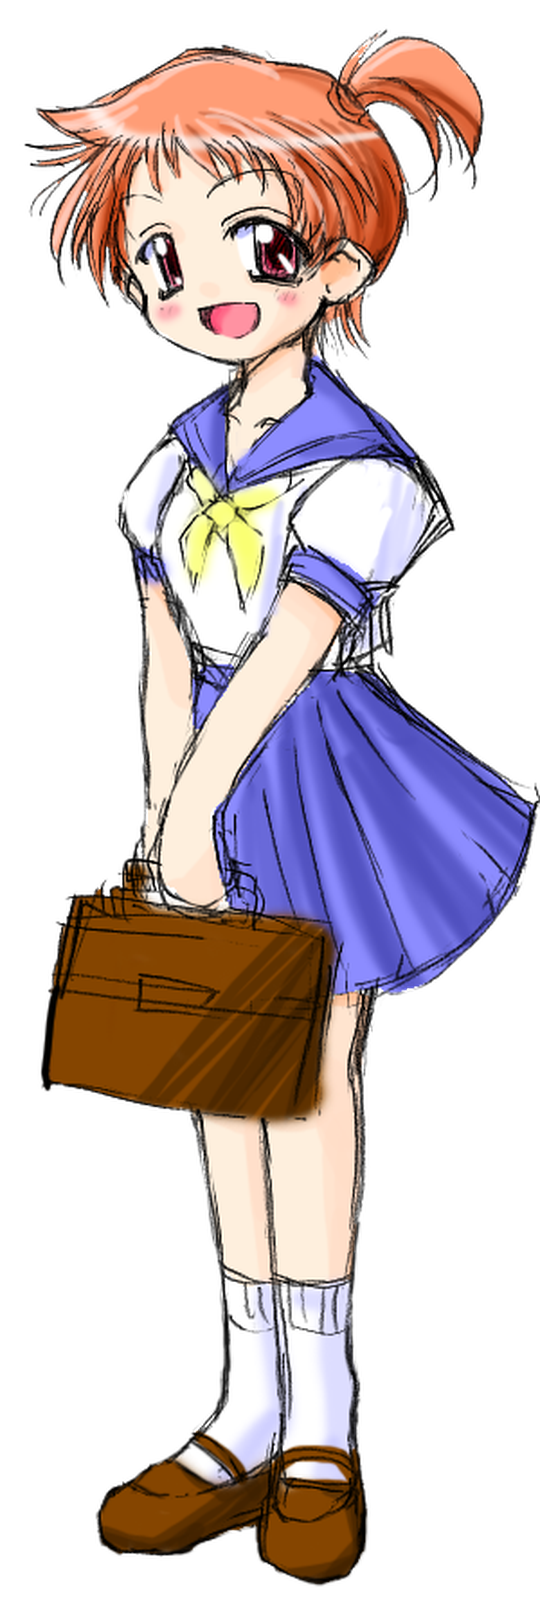
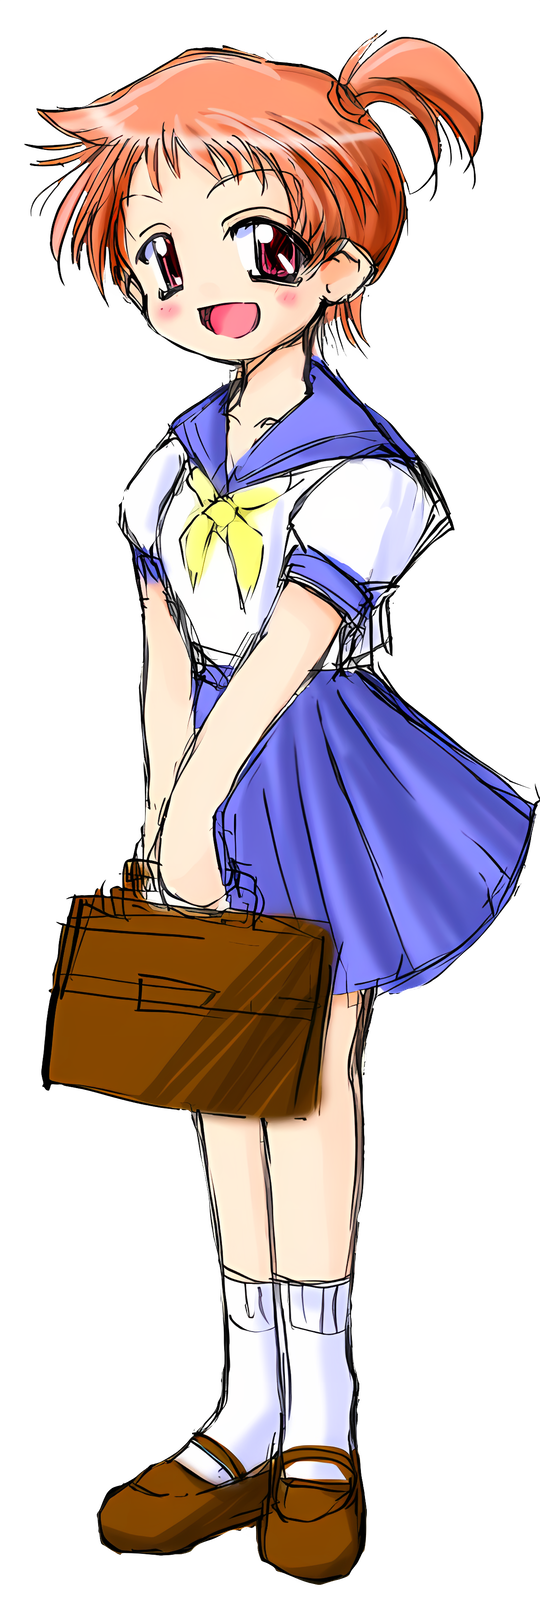
Upscale the character sprites from the original art
tools/assets/upscale.py runs Real-ESRGAN (4x) in NumPy on the original
800x600-era art, kept in tools/assets/src, and scales the result to the
sample's sizes. The sprites were the originals resized 1.8x. The weights
download into tools/assets/.weights on first use.

Claude-Session: https://claude.ai/code/session_011Ht4vxd9r6Y39vyF5A1j1j

diff --git a/tools/assets/upscale.py b/tools/assets/upscale.py
@@ -1,0 +1,248 @@
+#!/usr/bin/env python3
+"""Rebuilds the sample's character sprites and backgrounds at 1920x1080 from the original
+800x600-era art in tools/assets/src, with Real-ESRGAN.
+
+usage: python3 tools/assets/upscale.py [name ...]     (no names: all of them)
+
+Real-ESRGAN (https://github.com/xinntao/Real-ESRGAN, BSD-3-Clause) runs here in NumPy, so
+nothing beyond NumPy and Pillow is needed; it is slow (about half an hour for everything on
+two cores). The weights are downloaded on first use into tools/assets/.weights (gitignored).
+The network upscales 4x; the result is then scaled down to the sample's 1.8x (sprites) or
+2.4x and cropped to 16:9 (backgrounds), so the line art comes out sharp instead of blurred.
+"""
+import hashlib, os, pickle, sys, time, urllib.request, zipfile
+from collections import OrderedDict
+import numpy as np
+from PIL import Image
+
+HERE = os.path.dirname(os.path.abspath(__file__))
+REPO = os.path.dirname(os.path.dirname(HERE))
+SRC = os.path.join(HERE, "src")
+WEIGHTS_DIR = os.path.join(HERE, ".weights")
+
+MODELS = {
+    # name: (url, sha256, residual blocks)
+    "anime": ("https://github.com/xinntao/Real-ESRGAN/releases/download/v0.2.2.4/RealESRGAN_x4plus_anime_6B.pth",
[1 lines of base64/hex data omitted]
+    "photo": ("https://github.com/xinntao/Real-ESRGAN/releases/download/v0.1.0/RealESRGAN_x4plus.pth",
[1 lines of base64/hex data omitted]
+}
+
+# output (relative to the repo), source in src/, model, output size, crop (left, top) after scaling
+JOBS = [
+    ("data/fgimage/ch_0_0_1.png", "ch_0_0_1.png", "anime", (540, 1620), None),
+    ("data/fgimage/ch_0_0_2.png", "ch_0_0_2.png", "anime", (540, 1620), None),
+    ("data/fgimage/ch_0_0_3.png", "ch_0_0_3.png", "anime", (540, 1620), None),
+    ("data/fgimage/ch_1_0_1.png", "ch_1_0_1.png", "anime", (324, 972), None),
+    ("data/fgimage/ch_2_0_1.png", "ch_2_0_1.png", "anime", (810, 2430), None),
+    # 800x600 -> 1920x1440, the middle 1080 lines
+    ("data/bgimage/bg01_01.png", "bg01_01.png", "photo", (1920, 1440), (0, 180, 1920, 1080)),
+    ("data/bgimage/event1.jpg", "event1.jpg", "photo", (1920, 1440), (0, 180, 1920, 1080)),
+]
+# CG/Replay thumbnails (setCGImage's picture area), made from a job's output
+THUMBS = [("data/thum/thum_event1.png", "data/bgimage/event1.jpg", (208, 117))]
+
+
+# --- a torch zip checkpoint, read without torch ----------------------------------------
+_DT = {"FloatStorage": np.float32, "HalfStorage": np.float16, "DoubleStorage": np.float64,
+       "LongStorage": np.int64, "IntStorage": np.int32}
+
+
+def load_pth(path):
+    z = zipfile.ZipFile(path)
+    pkl = [n for n in z.namelist() if n.endswith("data.pkl")][0]
+    prefix = pkl[: -len("data.pkl")]
+
+    class StorageType:
+        def __init__(self, name):
+            self.dtype = _DT[name]
+
+    def rebuild(storage, offset, size, stride, *a):
+        if not size:
+            return storage[offset].copy()
+        item = storage.itemsize
+        return np.lib.stride_tricks.as_strided(storage[offset:], shape=tuple(size),
+                                               strides=tuple(s * item for s in stride)).copy()
+
+    class Unpickler(pickle.Unpickler):
+        def find_class(self, mod, name):
+            if mod == "torch._utils" and name == "_rebuild_tensor_v2":
+                return rebuild
+            if mod == "torch._utils" and name == "_rebuild_parameter":
+                return lambda data, requires_grad, hooks, *a: data
+            if mod == "torch" and name.endswith("Storage"):
+                return StorageType(name)
+            if mod == "collections" and name == "OrderedDict":
+                return OrderedDict
+            raise pickle.UnpicklingError("unexpected %s.%s in the checkpoint" % (mod, name))
+
+        def persistent_load(self, pid):
+            _, stype, key, _, numel = pid
+            return np.frombuffer(z.read(prefix + "data/" + key), dtype=stype.dtype)[:numel]
+
+    sd = Unpickler(z.open(pkl)).load()
+    for k in ("params_ema", "params"):
+        if k in sd:
+            return sd[k]
+    return sd
+
+
+# --- RRDBNet ---------------------------------------------------------------------------
+class Net:
+    def __init__(self, sd, blocks):
+        self.w = {}  # 3x3 convolutions as (9*Cin, Cout) matrices for a channels-last im2col
+        for k, v in sd.items():
+            if k.endswith(".weight"):
+                cout, cin, kh, kw = v.shape
+                self.w[k[:-7]] = (np.ascontiguousarray(v.transpose(2, 3, 1, 0).reshape(kh * kw * cin, cout)).astype(np.float32),
+                                  sd[k[:-7] + ".bias"].astype(np.float32))
+        self.blocks = blocks
+
+    def conv(self, x, name, act=False):
+        w, b = self.w[name]
+        h, wd, c = x.shape
+        p = np.pad(x, ((1, 1), (1, 1), (0, 0)))
+        s = p.strides
+        win = np.lib.stride_tricks.as_strided(p, shape=(h, wd, 3, 3, c), strides=(s[0], s[1], s[0], s[1], s[2]))
+        out = (win.reshape(h * wd, 9 * c) @ w + b).reshape(h, wd, -1)
+        if act:
+            np.maximum(out, out * 0.2, out=out)  # leaky ReLU
+        return out
+
+    def rdb(self, x, p):
+        x1 = self.conv(x, p + ".conv1", True)
+        x2 = self.conv(np.concatenate([x, x1], 2), p + ".conv2", True)
+        x3 = self.conv(np.concatenate([x, x1, x2], 2), p + ".conv3", True)
+        x4 = self.conv(np.concatenate([x, x1, x2, x3], 2), p + ".conv4", True)
+        return self.conv(np.concatenate([x, x1, x2, x3, x4], 2), p + ".conv5") * 0.2 + x
+
+    def __call__(self, img):
+        f = self.conv(img, "conv_first")
+        b = f
+        for i in range(self.blocks):
+            p = "body.%d" % i
+            b = self.rdb(self.rdb(self.rdb(b, p + ".rdb1"), p + ".rdb2"), p + ".rdb3") * 0.2 + b
+        f = f + self.conv(b, "conv_body")
+        f = self.conv(f.repeat(2, 0).repeat(2, 1), "conv_up1", True)
+        f = self.conv(f.repeat(2, 0).repeat(2, 1), "conv_up2", True)
+        return self.conv(self.conv(f, "conv_hr", True), "conv_last")
+
+
+def upscale4(net, img, label, tile=96, pad=10):
+    """HxWx3 float32 in [0, 1] -> 4x, in overlapping tiles"""
+    h, w, _ = img.shape
+    out = np.zeros((h * 4, w * 4, 3), np.float32)
+    total = ((h + tile - 1) // tile) * ((w + tile - 1) // tile)
+    n = 0
+    t0 = time.time()
+    for y in range(0, h, tile):
+        for x in range(0, w, tile):
+            y0, x0 = max(0, y - pad), max(0, x - pad)
+            y1, x1 = min(h, y + tile + pad), min(w, x + tile + pad)
+            r = net(img[y0:y1, x0:x1])
+            ty, tx = (y - y0) * 4, (x - x0) * 4
+            th, tw = min(tile, h - y) * 4, min(tile, w - x) * 4
+            out[y * 4:y * 4 + th, x * 4:x * 4 + tw] = r[ty:ty + th, tx:tx + tw]
+            n += 1
+            print("\r  %s: tile %d/%d, %ds" % (label, n, total, time.time() - t0), end="", flush=True)
+    print()
+    return np.clip(out, 0, 1)
+
+
+def bleed(rgb, alpha):
+    """Spreads the colours of opaque pixels into the transparent ones, so the upscaler and the
+    downscale don't pull whatever colour the transparent pixels happen to have into the edges"""
+    a = (alpha > 0).astype(np.float32)[:, :, None]
+    acc_c, acc_a = rgb * a, a.copy()
+    im_c, im_a = acc_c, acc_a
+    for _ in range(64):
+        if (acc_a > 0).all():
+            break
+        # one step of a 3x3 box spread
+        pc = np.pad(im_c, ((1, 1), (1, 1), (0, 0)), mode="edge")
+        pa = np.pad(im_a, ((1, 1), (1, 1), (0, 0)), mode="edge")
+        im_c = sum(pc[dy:dy + rgb.shape[0], dx:dx + rgb.shape[1]] for dy in range(3) for dx in range(3))
+        im_a = sum(pa[dy:dy + rgb.shape[0], dx:dx + rgb.shape[1]] for dy in range(3) for dx in range(3))
+        fill = (acc_a == 0) & (im_a > 0)
+        acc_c = np.where(fill, im_c / np.maximum(im_a, 1e-6), acc_c)
+        acc_a = np.where(fill, 1.0, acc_a)
+        im_c, im_a = acc_c * acc_a, acc_a
+    return np.where(a > 0, rgb, acc_c / np.maximum(acc_a, 1e-6))
+
+
+def weights(model):
+    url, sha, blocks = MODELS[model]
+    os.makedirs(WEIGHTS_DIR, exist_ok=True)
+    path = os.path.join(WEIGHTS_DIR, os.path.basename(url))
+    if not os.path.exists(path):
+        print("downloading", url, flush=True)
+        urllib.request.urlretrieve(url, path + ".part")
+        os.replace(path + ".part", path)
+    with open(path, "rb") as f:
+        digest = hashlib.sha256(f.read()).hexdigest()
+    if digest != sha:
+        raise SystemExit("%s: unexpected sha256 %s" % (path, digest))
+    return Net(load_pth(path), blocks)
+
+
+def resize_premultiplied(rgba, size):
+    """Lanczos resize of an RGBA float image without dark fringes at the alpha edges"""
+    a = rgba[:, :, 3:4]
+    pre = np.concatenate([rgba[:, :, :3] * a, a], 2)
+    chans = [np.asarray(Image.fromarray(pre[:, :, i]).resize(size, Image.LANCZOS)) for i in range(4)]
+    out = np.clip(np.stack(chans, 2), 0, 1)
+    al = out[:, :, 3:4]
+    rgb = np.where(al > 1e-4, out[:, :, :3] / np.maximum(al, 1e-4), 0)
+    return np.concatenate([np.clip(rgb, 0, 1), al], 2)
+
+
+def run(job, nets):
+    dst, src, model, size, crop = job
+    if model not in nets:
+        nets[model] = weights(model)
+    net = nets[model]
+    im = Image.open(os.path.join(SRC, src))
+    has_alpha = im.mode in ("RGBA", "LA") or (im.mode == "P" and "transparency" in im.info)
+    a = np.asarray(im.convert("RGBA" if has_alpha else "RGB")).astype(np.float32) / 255
+    rgb = a[:, :, :3]
+    if has_alpha:
+        rgb = bleed(rgb, a[:, :, 3])
+    big = upscale4(net, np.ascontiguousarray(rgb, dtype=np.float32), src + " colour")
+    if has_alpha:
+        al = upscale4(net, np.repeat(a[:, :, 3:4], 3, 2), src + " alpha").mean(2, keepdims=True)
+        out = resize_premultiplied(np.concatenate([big, al], 2), size)
+    else:
+        chans = [np.asarray(Image.fromarray(big[:, :, i]).resize(size, Image.LANCZOS)) for i in range(3)]
+        out = np.clip(np.stack(chans, 2), 0, 1)
+    img = Image.fromarray((out * 255 + 0.5).astype(np.uint8))
+    if crop:
+        l, t, w, h = crop
+        img = img.crop((l, t, l + w, t + h))
+    path = os.path.join(REPO, dst)
+    if path.endswith(".jpg"):
+        img.convert("RGB").save(path, quality=92, subsampling=0)
+    else:
+        img.save(path, optimize=True)
+    print("wrote", dst, img.size, flush=True)
+
+
+def thumbs():
+    for dst, src, size in THUMBS:
+        im = Image.open(os.path.join(REPO, src)).convert("RGB")
+        im.resize(size, Image.LANCZOS, reducing_gap=3.0).save(os.path.join(REPO, dst), optimize=True)
+        print("wrote", dst, size, flush=True)
+
+
+def main():
+    names = sys.argv[1:]
+    jobs = [j for j in JOBS if not names or os.path.basename(j[0]) in names or j[1] in names]
+    if names and not jobs:
+        raise SystemExit("nothing matches %s; jobs: %s" % (names, [os.path.basename(j[0]) for j in JOBS]))
+    nets = {}
+    for job in sorted(jobs, key=lambda j: j[2]):
+        run(job, nets)
+    thumbs()
+
+
+if __name__ == "__main__":
+    main()
